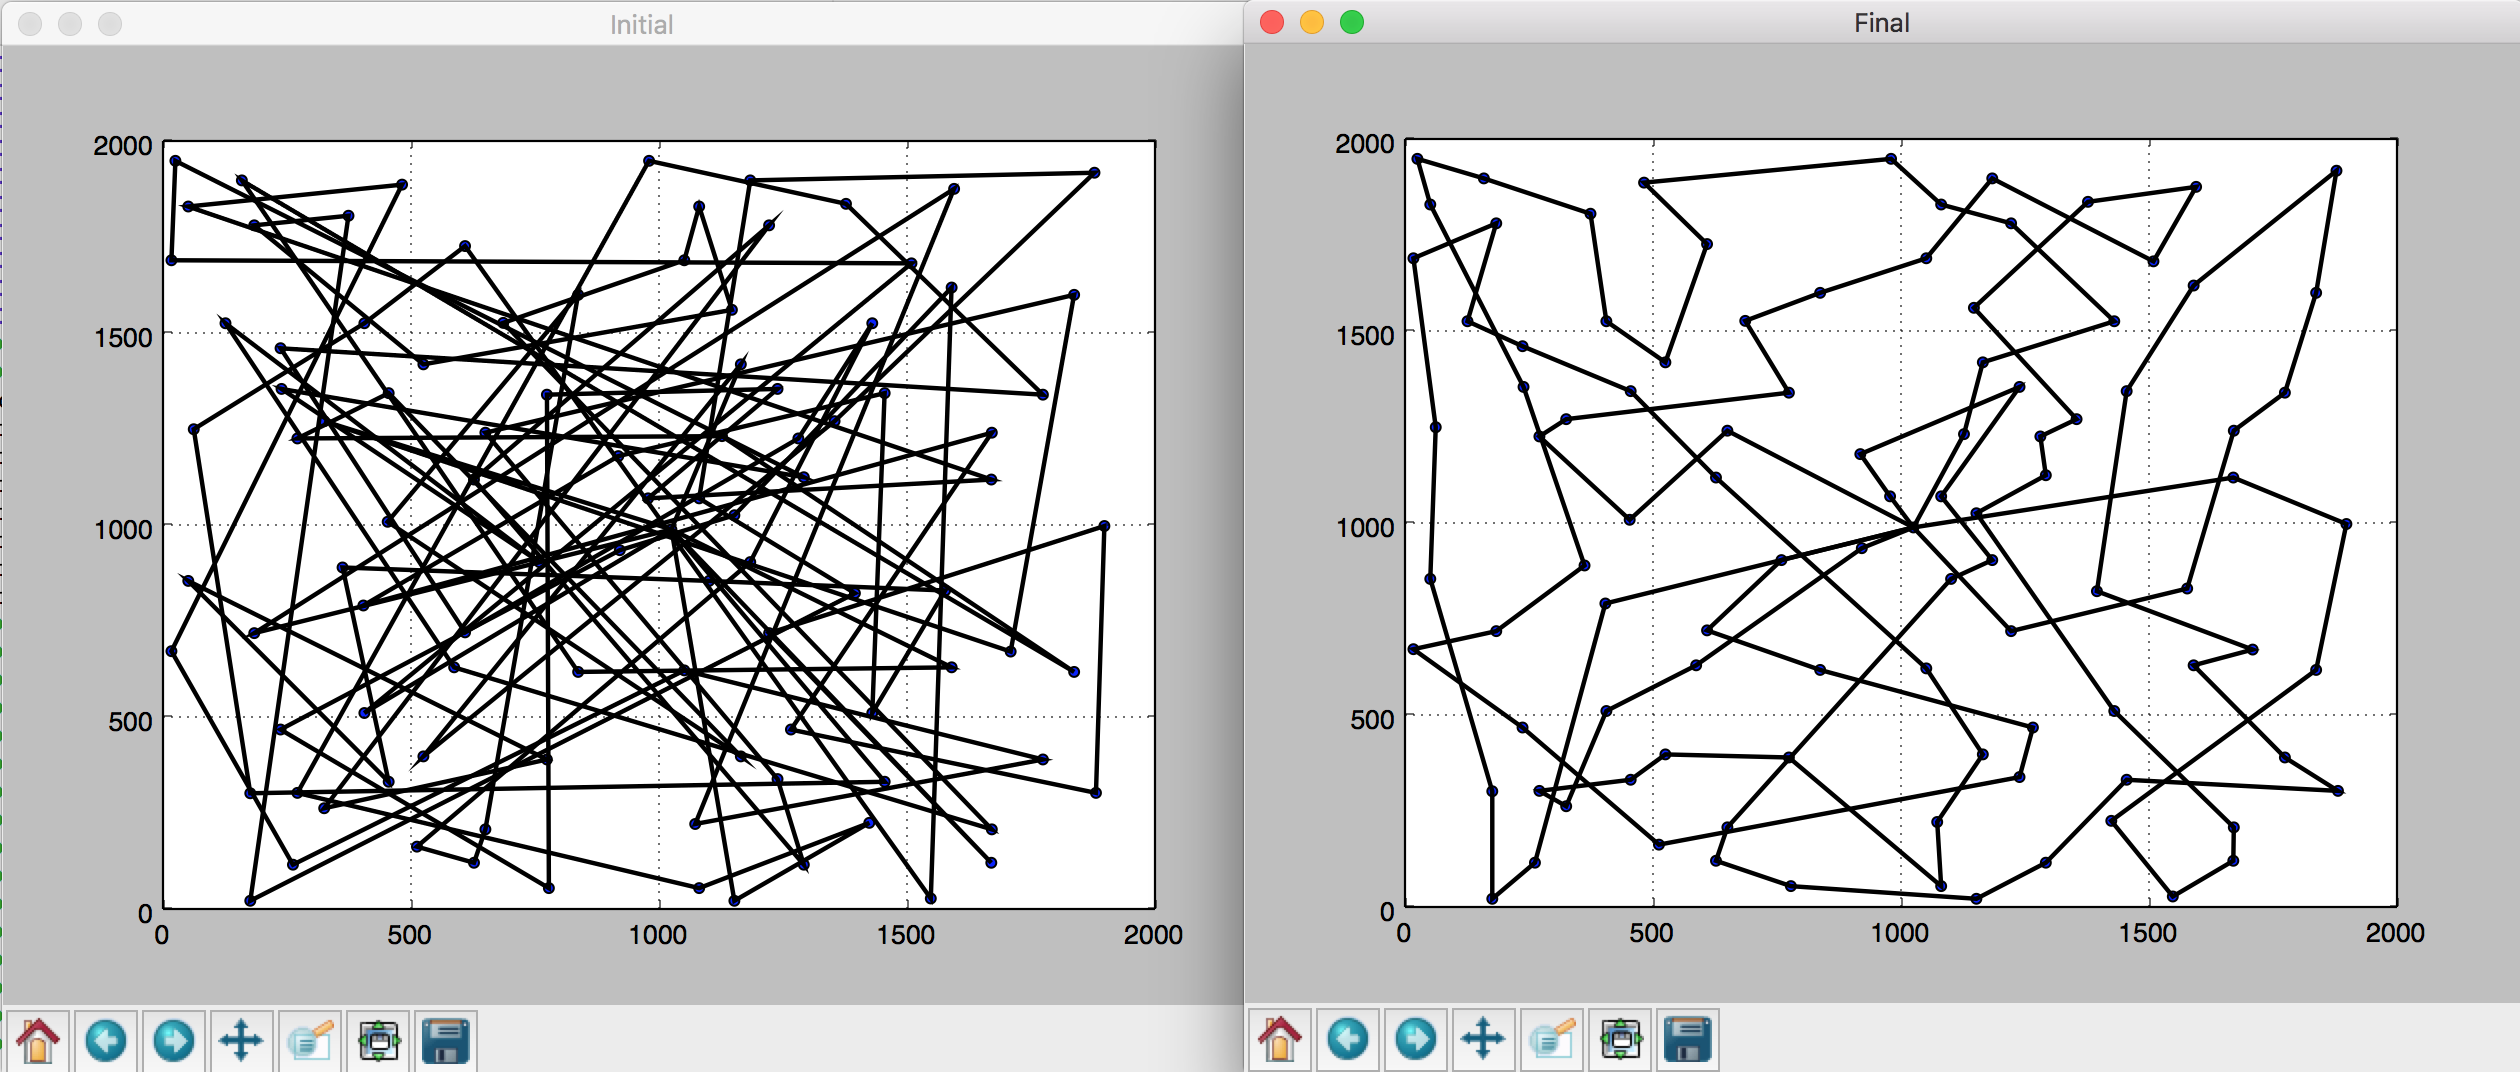
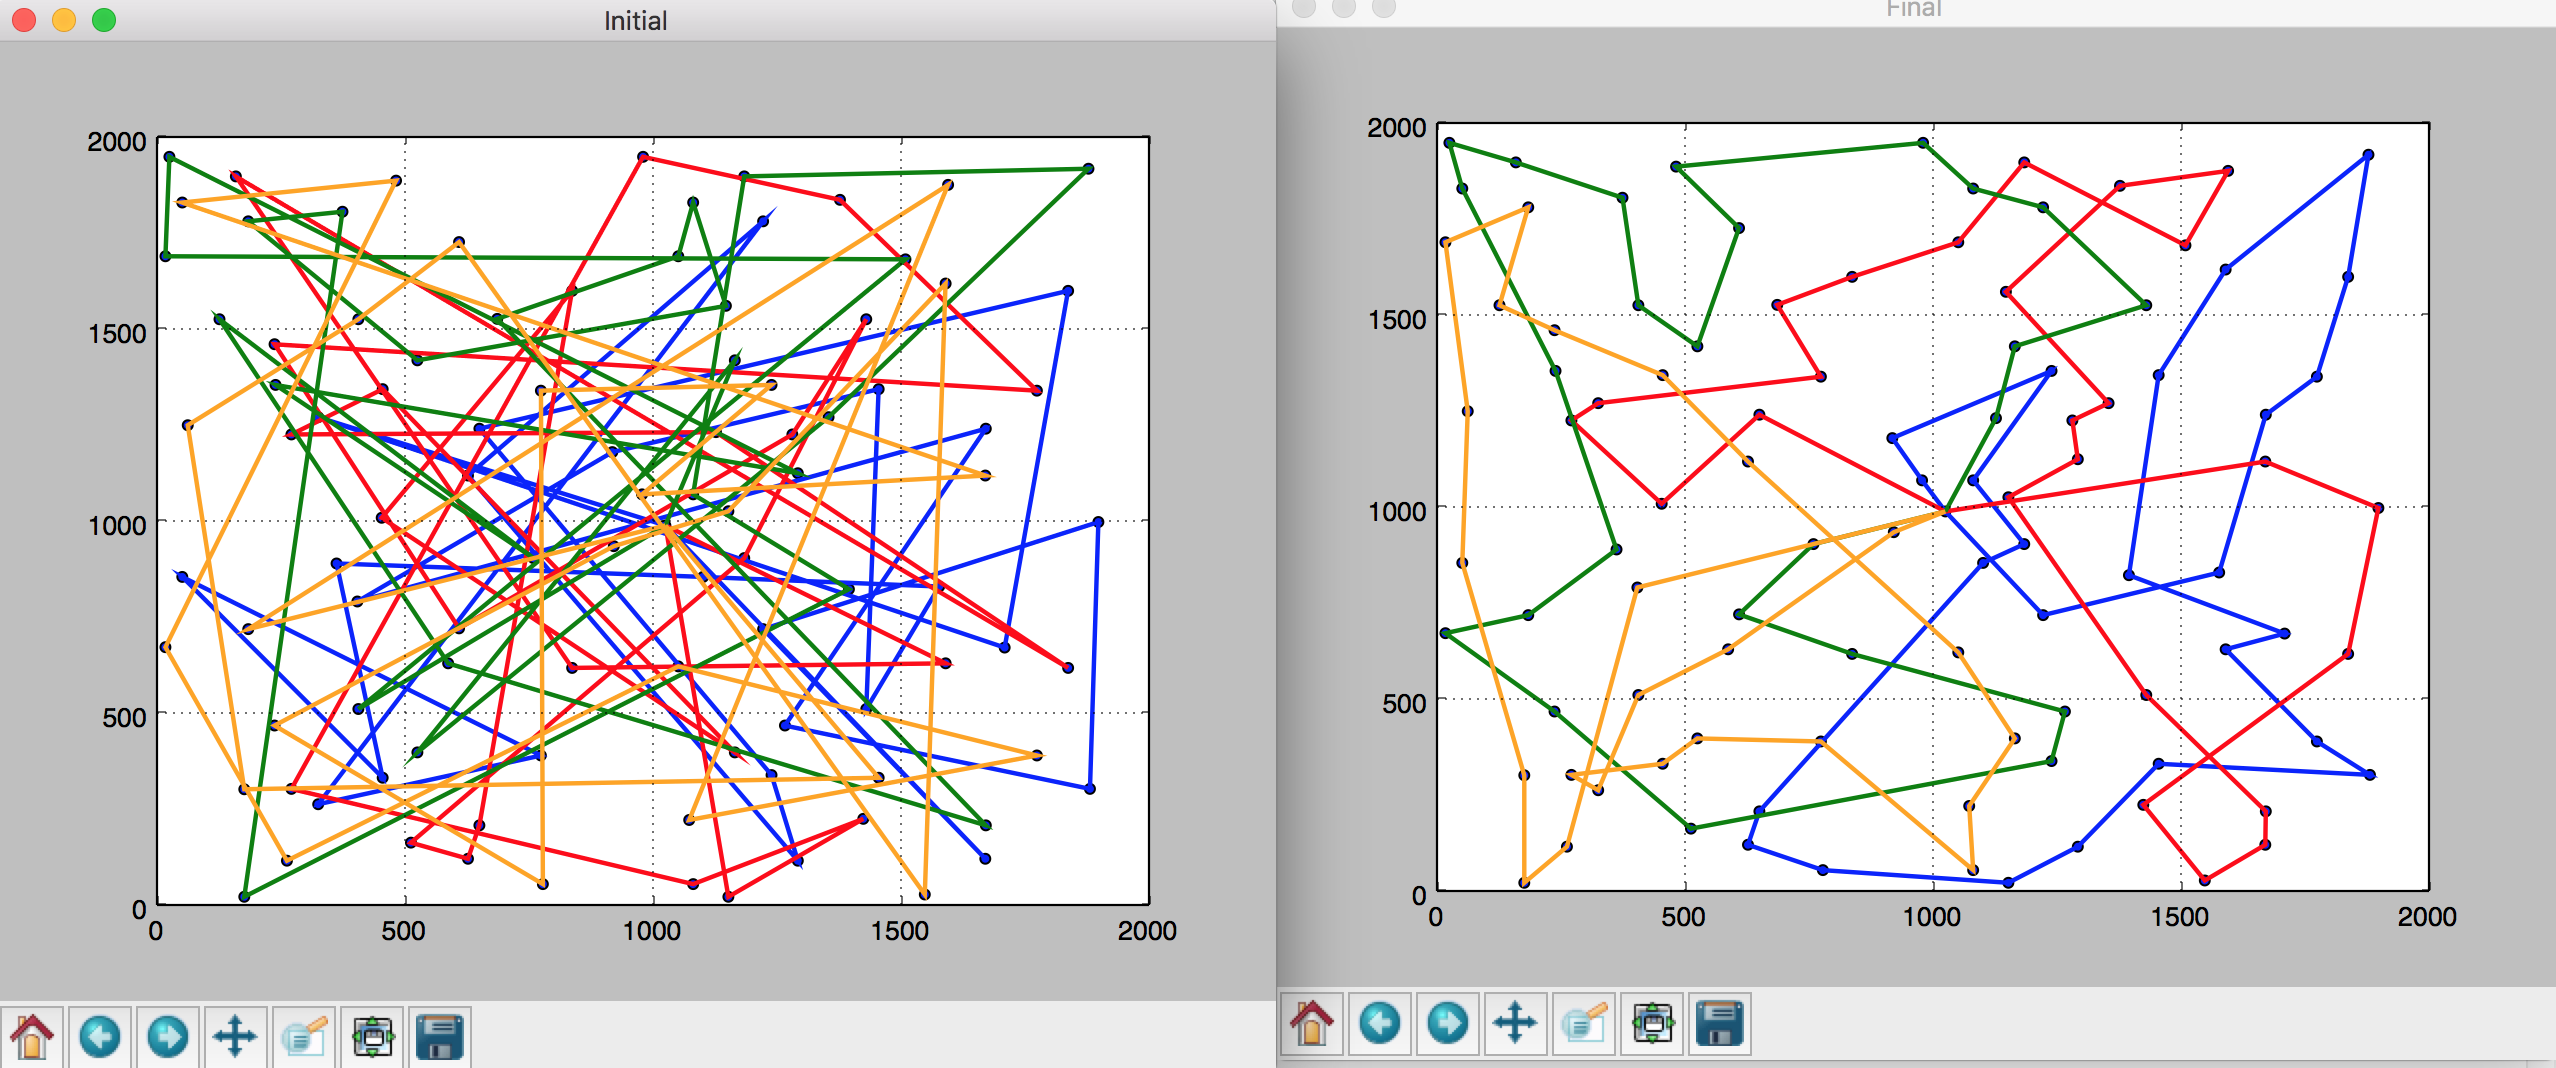
better plotting

diff --git a/plotting/draw_plot.py b/plotting/draw_plot.py
@@ -26,6 +26,8 @@ def draw_path(number, name, paths, cities):
 
     ax.scatter(x, y, c='b')
 
+    edgeColors = ['blue', 'red', 'green', 'orange', 'black']
+    i = 0
     for path in paths:
         codes = []
         codes.append(Path.MOVETO)
@@ -34,8 +36,9 @@ def draw_path(number, name, paths, cities):
         del codes[-1]
         # patch = patches.Arrow(int(path[0][0]), int(path[0][1]), int(path[0][0])-int(path[1][0]), int(path[0][1])-int(path[1][1]), width=2)
         draw_path = Path(path, codes)
-        patch = patches.PathPatch(draw_path, facecolor='none', lw=2)
+        patch = patches.PathPatch(draw_path, facecolor='none', edgecolor=edgeColors[i], lw=2)
         ax.add_patch(patch)
+        i += 1
 
     ax.set_xlim(0, 2000)
     ax.set_ylim(0, 2000)
